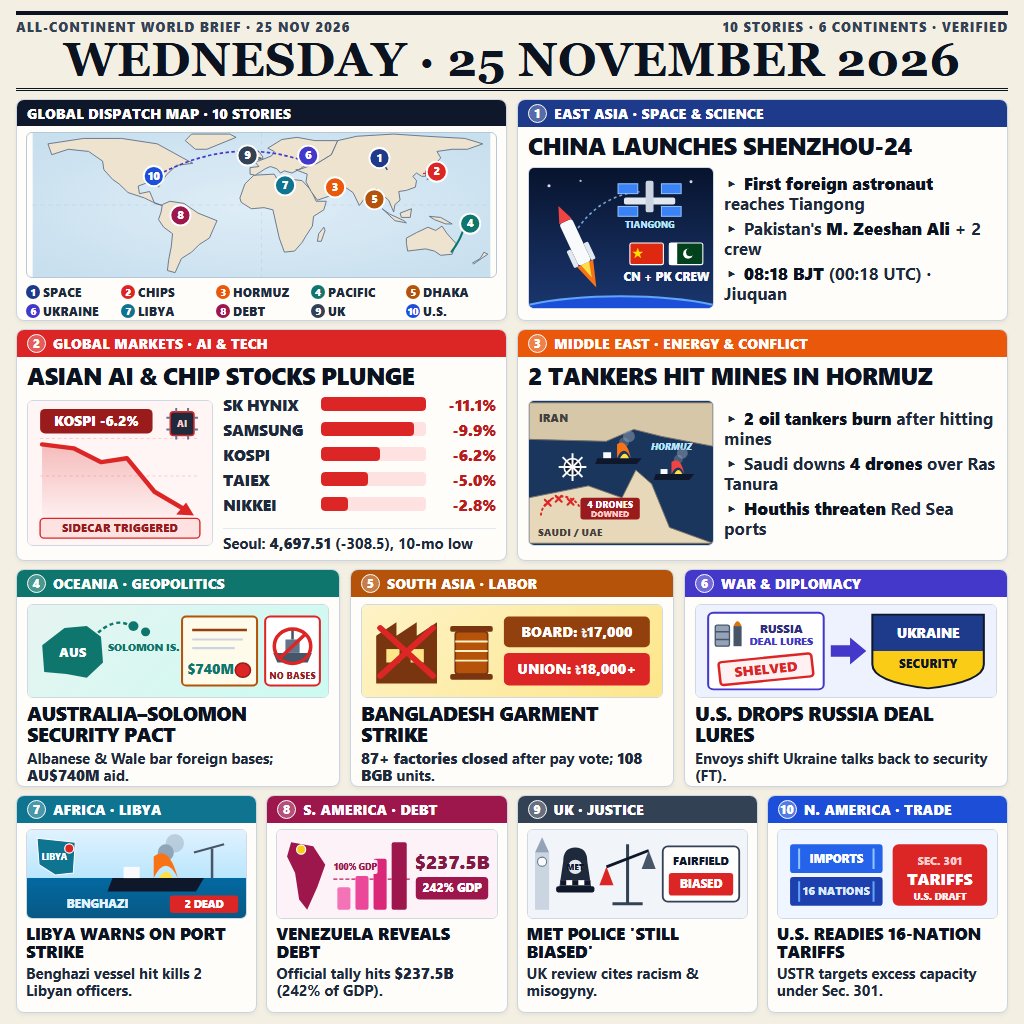
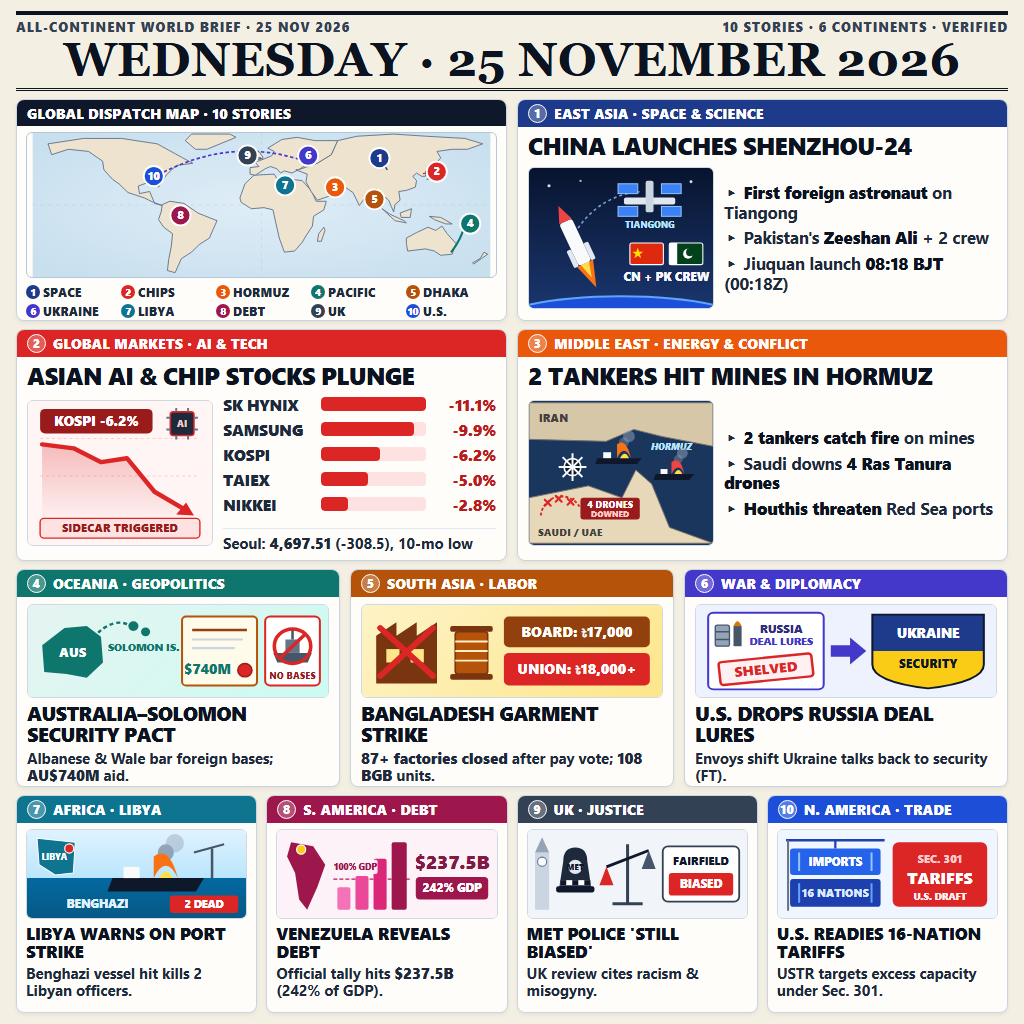
v14 final polish: clean line breaks in Row 1/2 and cargo crane in Trade panel

diff --git a/scripts/render_broadsheet.py b/scripts/render_broadsheet.py
@@ -7,7 +7,7 @@ from playwright.sync_api import sync_playwright
 ROOT = Path(__file__).resolve().parent.parent
 ASSET_OUT = ROOT / "assets" / "entry.png"
 SCRATCH_DIR = Path(r"C:\Users\82103\.gemini\antigravity\brain\c8bbd2ac-e3a5-415b-8afb-bf347f8e20ad\scratch")
-PREVIEW_300 = SCRATCH_DIR / "preview_300_v13.png"
+PREVIEW_300 = SCRATCH_DIR / "preview_300_v14.png"
 
 
 def proj(lon: float, lat: float) -> tuple[float, float]:
@@ -262,9 +262,9 @@ HTML_TEMPLATE = """<!doctype html>
     list-style: none;
     display: flex;
     flex-direction: column;
-    gap: 5px;
-    font-size: 17px;
-    line-height: 1.18;
+    gap: 6px;
+    font-size: 16.5px;
+    line-height: 1.2;
     color: #1E293B;
     font-weight: 700;
   }}
@@ -429,9 +429,9 @@ HTML_TEMPLATE = """<!doctype html>
             </svg>
           </div>
           <ul class="facts">
-            <li><strong>First foreign astronaut</strong> reaches Tiangong</li>
-            <li>Pakistan's <strong>M. Zeeshan Ali</strong> + 2 crew</li>
-            <li><strong>08:18 BJT</strong> (00:18 UTC) &middot; Jiuquan</li>
+            <li><strong>First foreign astronaut</strong> on Tiangong</li>
+            <li>Pakistan's <strong>Zeeshan Ali</strong> + 2 crew</li>
+            <li>Jiuquan launch <strong>08:18 BJT</strong> (00:18Z)</li>
           </ul>
         </div>
       </div>
@@ -543,8 +543,8 @@ HTML_TEMPLATE = """<!doctype html>
             </svg>
           </div>
           <ul class="facts">
-            <li><strong>2 oil tankers burn</strong> after hitting mines</li>
-            <li>Saudi downs <strong>4 drones</strong> over Ras Tanura</li>
+            <li><strong>2 tankers catch fire</strong> on mines</li>
+            <li>Saudi downs <strong>4 Ras Tanura drones</strong></li>
             <li><strong>Houthis threaten</strong> Red Sea ports</li>
           </ul>
         </div>
@@ -572,8 +572,8 @@ HTML_TEMPLATE = """<!doctype html>
             <line x1="162" y1="26" x2="216" y2="26" stroke="#92400E" stroke-width="2.6"/>
             <line x1="162" y1="36" x2="212" y2="36" stroke="#CBD5E1" stroke-width="2.2"/>
             <line x1="162" y1="45" x2="204" y2="45" stroke="#CBD5E1" stroke-width="2.2"/>
-            <circle cx="212" cy="68" r="7.5" fill="#DC2626" stroke="#991B1B" stroke-width="1.6"/>
-            <text x="180" y="72" text-anchor="middle" fill="#0F766E" font-size="13.5" font-weight="900">$740M</text>
+            <circle cx="214" cy="68" r="7" fill="#DC2626" stroke="#991B1B" stroke-width="1.5"/>
+            <text x="177" y="72" text-anchor="middle" fill="#0F766E" font-size="13.5" font-weight="900">$740M</text>
             <g transform="translate(234,12)">
               <rect x="0" y="0" width="54" height="72" rx="5" fill="#FFF" stroke="#DC2626" stroke-width="2"/>
               <polygon points="8,38 46,38 42,48 12,48" fill="#475569"/>
@@ -773,18 +773,21 @@ HTML_TEMPLATE = """<!doctype html>
       <div class="card-body" style="gap: 5px; padding: 6px 9px 7px 9px;">
         <div class="art-box" style="height: 90px;">
           <svg viewBox="0 0 218 86" preserveAspectRatio="none" xmlns="http://www.w3.org/2000/svg" style="display:block;width:100%;height:100%;background:#EFF6FF;">
-            <!-- Crisp shipping containers with corner ribs clear of centered labels -->
-            <rect x="12" y="14" width="92" height="28" rx="3" fill="#2563EB"/>
-            <line x1="21" y1="18" x2="21" y2="38" stroke="#93C5FD" stroke-width="2"/>
-            <line x1="95" y1="18" x2="95" y2="38" stroke="#93C5FD" stroke-width="2"/>
-            <text x="58" y="32" text-anchor="middle" fill="#FFF" font-size="11.5" font-weight="900">IMPORTS</text>
-            <rect x="12" y="46" width="92" height="28" rx="3" fill="#1E40AF"/>
-            <line x1="21" y1="50" x2="21" y2="70" stroke="#60A5FA" stroke-width="2"/>
-            <line x1="95" y1="50" x2="95" y2="70" stroke="#60A5FA" stroke-width="2"/>
-            <text x="58" y="64" text-anchor="middle" fill="#DBEAFE" font-size="11" font-weight="900">16 NATIONS</text>
-            <rect x="114" y="14" width="94" height="60" rx="6" fill="#DC2626"/>
-            <text x="161" y="34" text-anchor="middle" fill="#FECACA" font-size="11" font-weight="900">SEC. 301</text>
-            <text x="161" y="54" text-anchor="middle" fill="#FFF" font-size="16" font-weight="900">TARIFFS</text>
+            <!-- Clean port crane truss above shipping containers -->
+            <line x1="8" y1="10" x2="106" y2="10" stroke="#1E40AF" stroke-width="2.5"/>
+            <line x1="10" y1="10" x2="10" y2="79" stroke="#64748B" stroke-width="2"/>
+            <line x1="57" y1="10" x2="57" y2="18" stroke="#1E40AF" stroke-width="2.2"/>
+            <rect x="12" y="18" width="90" height="26" rx="3" fill="#2563EB"/>
+            <line x1="21" y1="22" x2="21" y2="40" stroke="#93C5FD" stroke-width="2"/>
+            <line x1="93" y1="22" x2="93" y2="40" stroke="#93C5FD" stroke-width="2"/>
+            <text x="57" y="35" text-anchor="middle" fill="#FFF" font-size="11.5" font-weight="900">IMPORTS</text>
+            <rect x="12" y="48" width="90" height="27" rx="3" fill="#1E40AF"/>
+            <line x1="21" y1="52" x2="21" y2="71" stroke="#60A5FA" stroke-width="2"/>
+            <line x1="93" y1="52" x2="93" y2="71" stroke="#60A5FA" stroke-width="2"/>
+            <text x="57" y="65.5" text-anchor="middle" fill="#DBEAFE" font-size="11" font-weight="900">16 NATIONS</text>
+            <rect x="114" y="12" width="94" height="63" rx="6" fill="#DC2626"/>
+            <text x="161" y="32" text-anchor="middle" fill="#FECACA" font-size="11" font-weight="900">SEC. 301</text>
+            <text x="161" y="53" text-anchor="middle" fill="#FFF" font-size="16" font-weight="900">TARIFFS</text>
             <text x="161" y="68" text-anchor="middle" fill="#FEF2F2" font-size="9.5" font-weight="800">U.S. DRAFT</text>
           </svg>
         </div>
